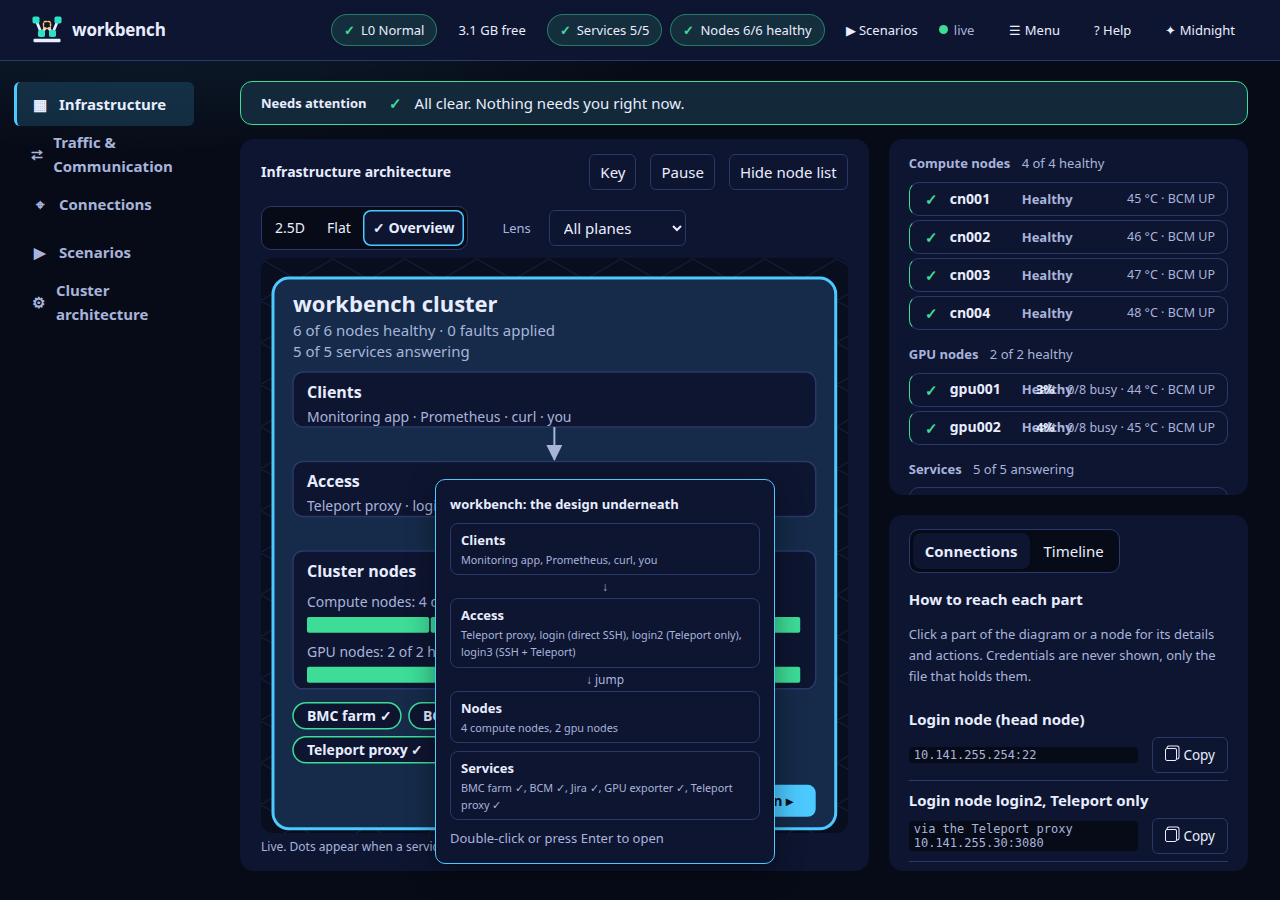
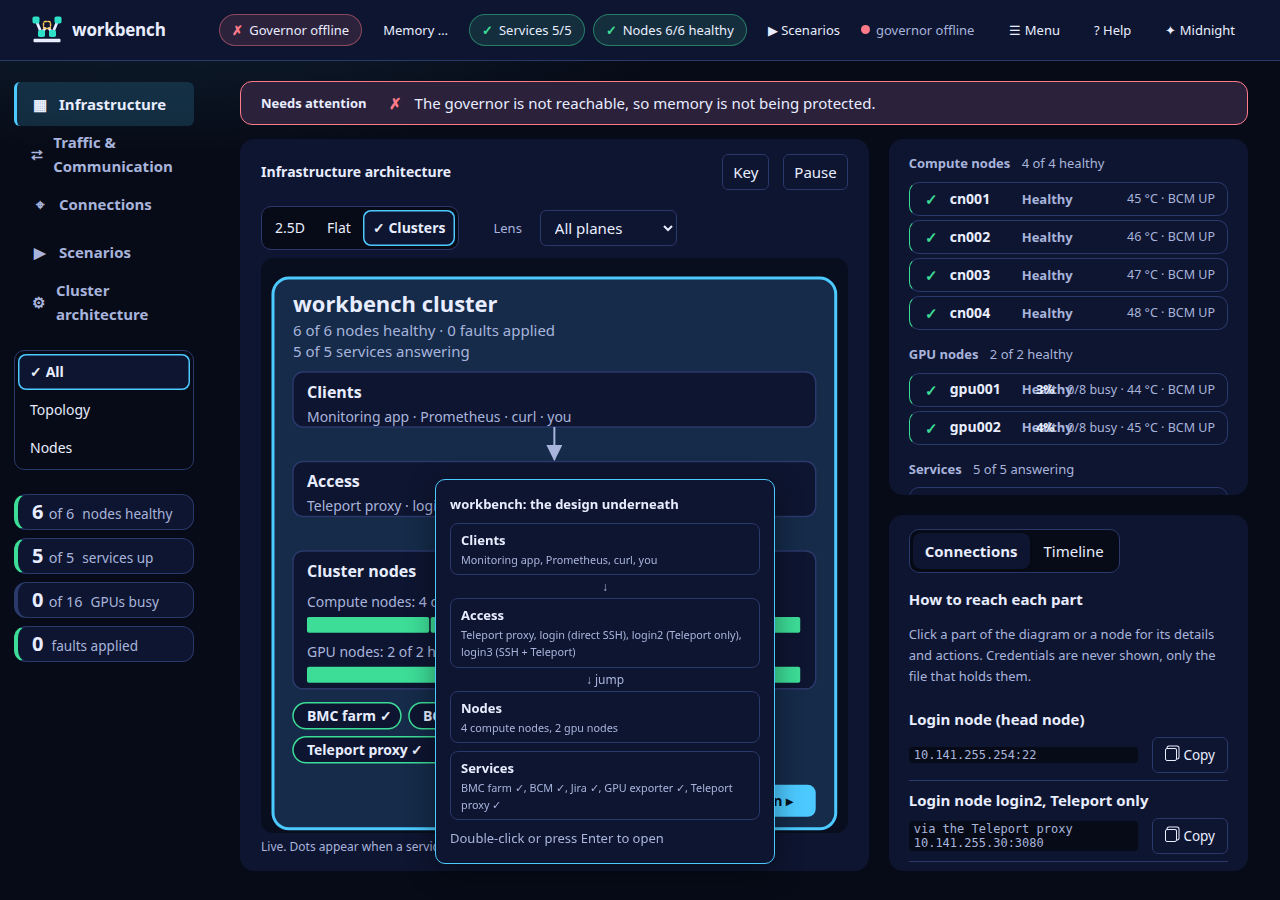
feat(web): drop the redundant Hide node list button, rename the clusters level, refresh manual images (#401)

diff --git a/webui/static/index.html b/webui/static/index.html
@@ -533,9 +533,8 @@
   <div id="stackdown" class="notice" hidden>The simulation stack is not running, so there is no node data. Start it with <code>./scripts/benchctl start</code>.</div>
     <div class="nodeswrap" id="nodeswrap">
   <section class="panel trafficpanel" id="trafficpanel" aria-labelledby="traffic-h"><div class="row"><h2 id="traffic-h" style="margin:0">Infrastructure architecture</h2>
-    <span class="grow"></span><button class="btn small" id="keybtn" aria-expanded="false" aria-controls="ckey">Key</button><button class="btn small" id="flowpause" aria-pressed="false" aria-label="Pause animation">Pause</button>
-    <button class="btn small" id="treetoggle" aria-expanded="true" aria-controls="nodesmain">Hide node list</button></div>
-    <div class="row viewrow"><div class="seg" id="viewseg" role="group" aria-label="View of the architecture"><button class="btn small" id="vw-iso" aria-pressed="true">2.5D</button><button class="btn small" id="vw-flat" aria-pressed="false">Flat</button><button class="btn small" id="vw-ov" aria-pressed="false">Overview</button></div>
+    <span class="grow"></span><button class="btn small" id="keybtn" aria-expanded="false" aria-controls="ckey">Key</button><button class="btn small" id="flowpause" aria-pressed="false" aria-label="Pause animation">Pause</button></div>
+    <div class="row viewrow"><div class="seg" id="viewseg" role="group" aria-label="View of the architecture"><button class="btn small" id="vw-iso" aria-pressed="true">2.5D</button><button class="btn small" id="vw-flat" aria-pressed="false">Flat</button><button class="btn small" id="vw-ov" aria-pressed="false">Clusters</button></div>
       <label class="lensl" for="lens">Lens</label><select id="lens" class="btn small"><option value="all">All planes</option><option value="access">Access</option><option value="management">Management</option><option value="telemetry">Telemetry</option><option value="tickets">Tickets</option><option value="faults">Faults</option><option value="client">Client's eye</option></select></div>
     <div class="flowscroll"><svg id="flow" viewBox="0 0 1120 470" role="img" aria-label="Infrastructure architecture: clients and users, the access layer (login nodes, each direct SSH, Teleport or both, and the Teleport proxy when on), the services, and the nodes. Each part opens its details."></svg></div>
     <div class="ovprev" id="ovprev" role="tooltip" hidden></div><div class="srtable" id="ovtable"></div>
@@ -1875,7 +1874,7 @@ $('flowpause').onclick = () => { flowPaused = !flowPaused; $('flowpause').setAtt
 
 // the node list beside the diagram folds away, so the diagram can have the whole width (remembered when storage allows)
 function setTree(open, remember = true) {
-  $('nodeswrap').classList.toggle('treeoff', !open); $('treetoggle').setAttribute('aria-expanded', open); $('treetoggle').textContent = open ? 'Hide node list' : 'Show node list';
+  $('nodeswrap').classList.toggle('treeoff', !open);
   if (remember) try { localStorage.setItem('workbench-tree', open ? 'open' : 'closed'); } catch (e) { /* not remembered */ }
 }
 function setSub(v, remember = true) {  // All | Topology (diagram, list folded) | Nodes (list, diagram hidden)
@@ -1885,7 +1884,6 @@ function setSub(v, remember = true) {  // All | Topology (diagram, list folded) 
   if (v !== 'nodes') requestAnimationFrame(() => window.dispatchEvent(new Event('resize')));
 }
 document.querySelectorAll('#subseg [data-sub]').forEach(b => b.onclick = () => setSub(b.dataset.sub));
-$('treetoggle').onclick = () => setTree($('treetoggle').getAttribute('aria-expanded') !== 'true');
 
 function setView(iso, remember) {  // 2.5D game style or the flat baseline (#320)
   $('trafficpanel').dataset.view = iso ? 'iso' : 'flat'; paintViewSeg();

diff --git a/scripts/ui_shots.py b/scripts/ui_shots.py
@@ -166,10 +166,10 @@ def capture(out: Path) -> dict:
                         page.mouse.move(2, 2)
                         page.evaluate(SYNTH_CLUSTER)  # with the stack down (a --full run, after the other modules tore theirs down) the list is hidden for want of nodes
                         page.wait_for_timeout(300)
-                        page.click("#treetoggle")  # the node list folds away, the diagram keeps the width
+                        page.click("[data-sub=topo]")  # the node list folds away, the diagram keeps the width
                         if page.locator("#nodesmain:visible").count() != 0:
                             result["a11y"].append("the node list did not fold away")
-                        page.click("#treetoggle")
+                        page.click("[data-sub=all]")
                         if page.locator("#nodesmain:visible").count() != 1:
                             result["a11y"].append("the node list did not come back")
                     if vp == "phone" and page.evaluate("document.querySelector('#nodeswrap').getBoundingClientRect().width < 300 || getComputedStyle(document.querySelector('#nodeswrap')).gridTemplateColumns.split(' ').length > 1"):

diff --git a/tests/test_webui_teleport.py b/tests/test_webui_teleport.py
@@ -71,7 +71,7 @@ def test_the_diagram_draws_access_paths_and_every_part_has_a_tip_and_a_pop_up():
     html = Path("webui/static/index.html").read_text()
     for needle in ("'direct SSH'", "'jump host'", "'Teleport'", "MODE_TEXT", "loginList()",     # one labelled line per way in
                    'id="tip"', 'role="tooltip"', 'id="pop"', 'role="dialog"', "function openPop(", "function showTip(",
-                   'id="treetoggle"', "function setTree(", "workbench-tree"):                   # the node list folds away
+                   'id="subseg"', "function setTree(", "workbench-tree"):                   # the node list folds away
         assert needle in html, needle
 
 

diff --git a/docs/manual/05-web-page.md b/docs/manual/05-web-page.md
@@ -23,7 +23,7 @@ this machine can use the page, so keep it private. The page listens on `127.0.0.
 | **View choice** | under the nav on Infrastructure: **All** (diagram and node list), **Topology** (diagram only, wider) or **Nodes** (list and details only); remembered in this browser |
 | **Left nav** | the workspaces: **Infrastructure**, **Traffic & Communication** (the documented links: protocol, port, real or simulated, observed or configured, the measured probe latency, above the table slurmctld's own request counts from `sdiag`, and Prometheus's scrape links). The links are also drawn as a diagram (the plane is the line's colour and dash pattern). The page opens in the dark Midnight theme until you pick another with the theme button. Filter by plane, software or evidence, click a link's source to open its inspector; a toolbar of plane chips with zoom, Fit and full screen; below the diagram, a **Traffic activity timeline** (requests and faults this page was told about, 1 m to 1 h, kept only while the page is open); the diagram is one fixed architecture (every group always drawn; a part this cluster lacks, or the page cannot read yet such as slurmdbd and storage, is grayed, never dropped) and a group can be dragged (or moved with the arrow keys) with the lines re-routing, kept in the browser, **Reset layout** undoes it, and press **Follow the path** to see the chain it belongs to, **Connections**, then **Scenarios** and **Cluster architecture**. **Top strip** | governor level, free memory, healthy services and nodes, the running scenario; then **☰ Menu** (Health checks, Export), help and the theme switch (press it to cycle Auto, Light, Dark, **Midnight** with deep navy and neon accents, and **Dim** with soft slate and low glare; the choice is remembered). The strip is for status only. **☰ Menu** lists the actions in three groups, each with a one-line hint: *Run* (**▶ Scenarios**), *Configure* (**▦ Cluster architecture**: nodes, GPUs per node, optional parts and the plan; **✚ Health checks**) and *Share* (**⇩ Export**). Esc closes it. Pressing the level or memory chip opens the **Governor** panel |
 | **Tabs and Needs attention** | the tabs *Nodes* and *Connections*, and one slim bar next to them with every item that needs you, or "All clear" |
-| **Stage** (Nodes tab) | three areas that fill the window. **Left:** the **Infrastructure architecture**, drawn to the shape of its panel (clients across the top, the access layer under them, the cluster nodes below that, the services in a column at the right). **Top right:** the **node list** (Compute, GPU and Services). **Bottom right:** **Connections**, how to reach each part (address and a Copy button), which shows the selected part instead when you click one, and a **Timeline** tab of recent traffic and faults. **Hide node list** gives the right column to Connections; the choice is remembered |
+| **Stage** (Nodes tab) | three areas that fill the window. **Left:** the **Infrastructure architecture**, drawn to the shape of its panel (clients across the top, the access layer under them, the cluster nodes below that, the services in a column at the right). **Top right:** the **node list** (Compute, GPU and Services). **Bottom right:** **Connections**, how to reach each part (address and a Copy button), which shows the selected part instead when you click one, and a **Timeline** tab of recent traffic and faults. **Topology** (left rail) gives the right column to Connections; the choice is remembered |
 
 Two panels open on top of the page from the top strip or its **☰ Menu** and close with **✕ Close**, Esc or a click outside: **Cluster architecture** and **Governor**. **Scenarios** is different: it is a panel docked on the right that you switch on and off with the **▶ Scenarios** button in the top strip, so the diagram stays visible and live while a scenario runs. A node is different: it opens in the **Connections** area (below), so the Infrastructure architecture and the node list stay in view.
 
